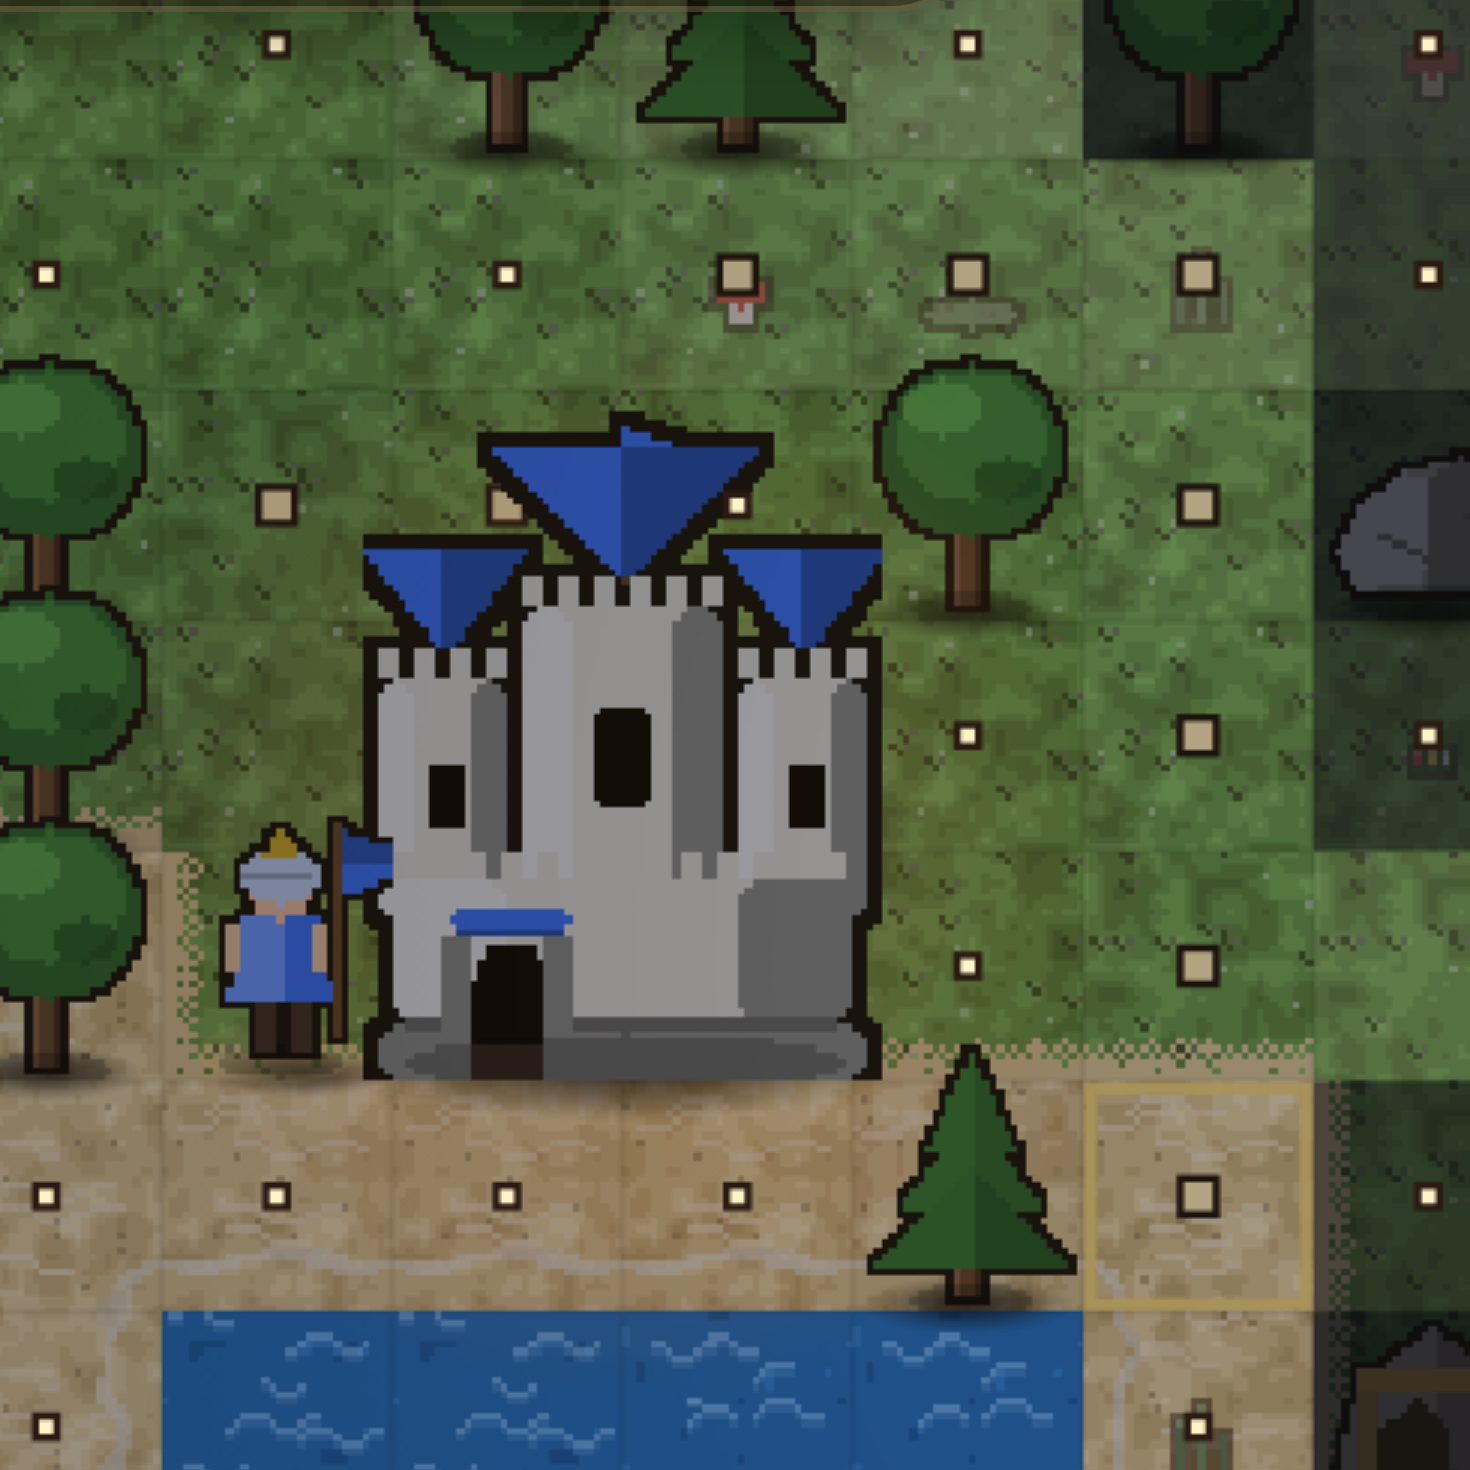
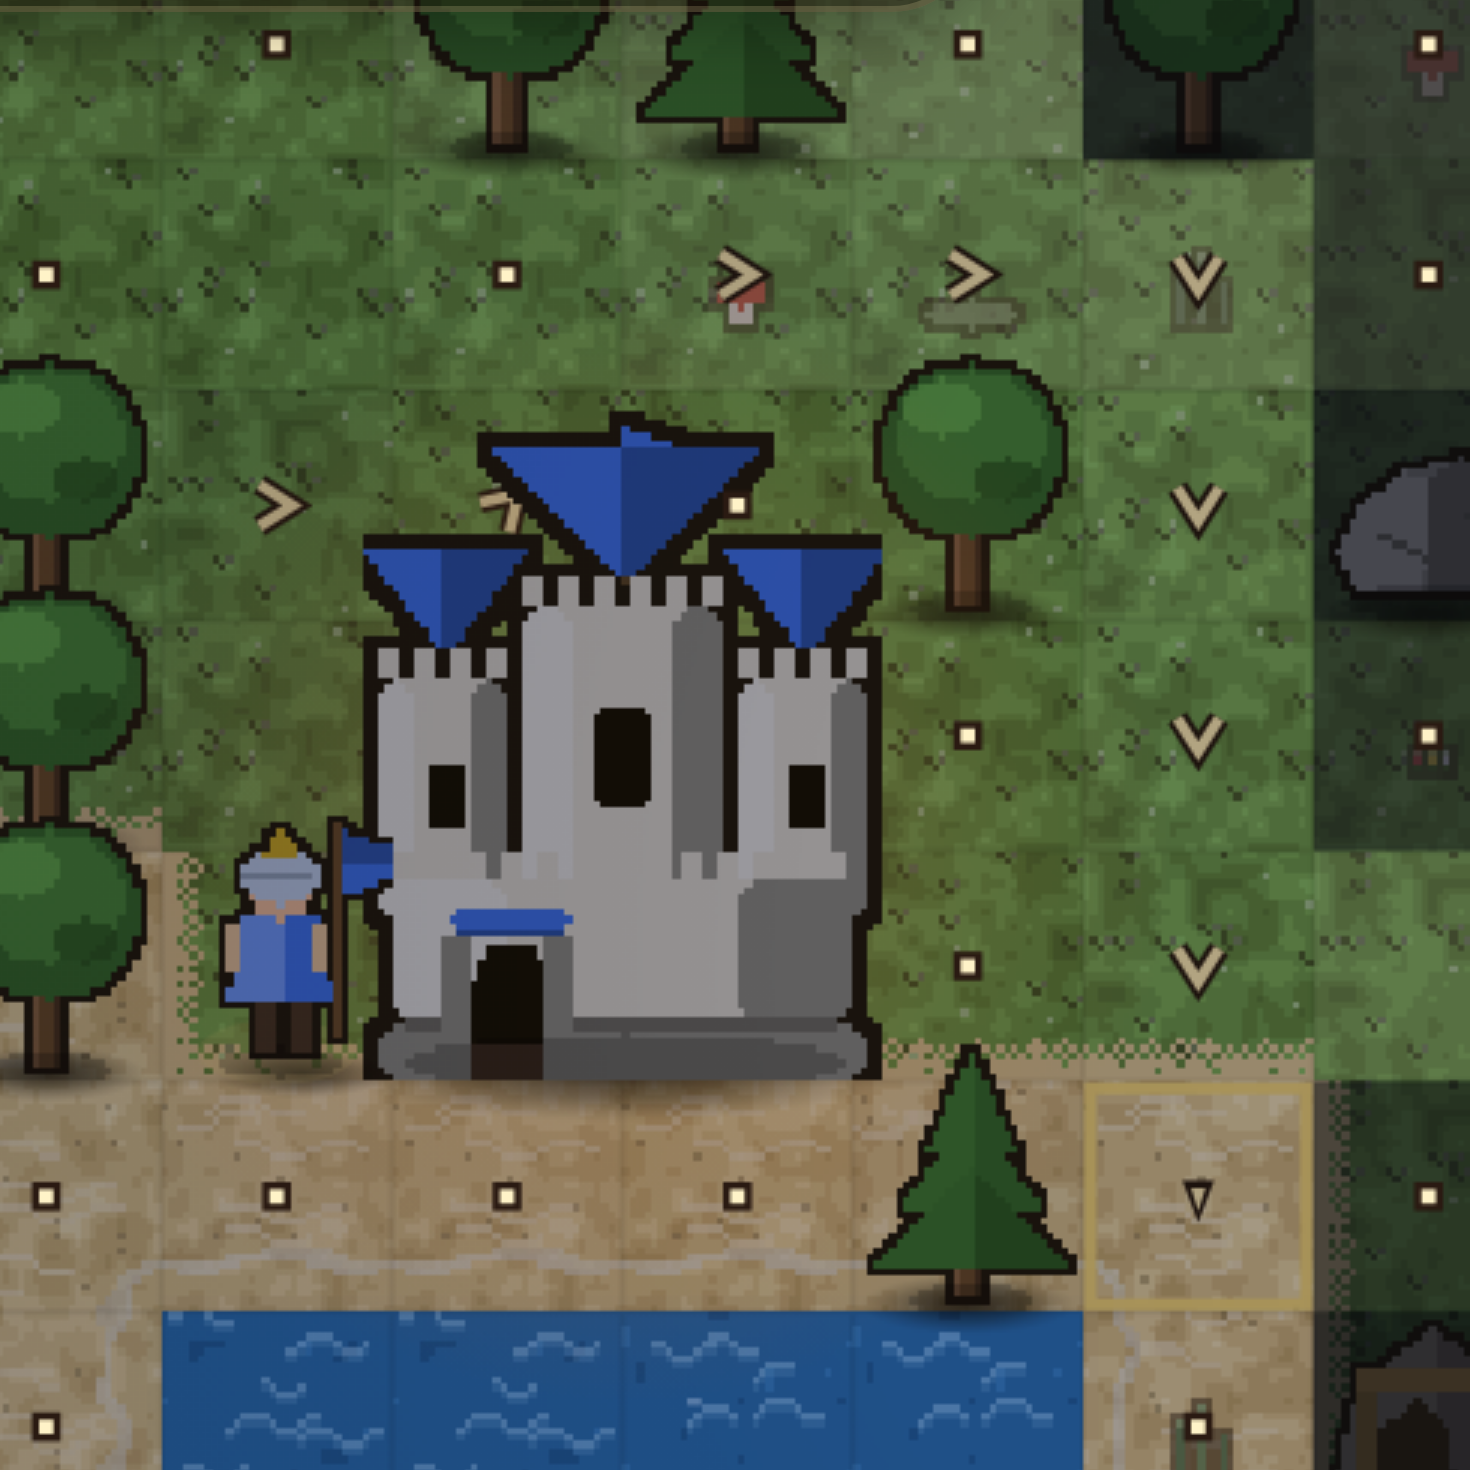
feat(render): 预览路径地标改成带方向的折角箭头（probe:pathdots 加 pathdir）
方点只回答"这格在路线里"，回答不了"往哪走" —— 10 步路线要靠玩家自己把点连成线，
而这条线是要用手指点的，读错一步就多点一次。

- 每格一枚折角箭头（尖 +2.2 / 两翼 −2.4 ± 2.9，墨 3.0 + 金 1.5），末步换实心三角（尖 3.6 / 底 ±2.2）；
  颜色仍是墨 #2a1a12 + 金 #ffe6a0，层级「箭头 > 边界」。不画连续线：一格只有 38 画面 px，
  连续线会压掉地形，拐角也不好表达。
- 新判据 `pathdir`：`main.ts` 的 buildPath 回传路径点列（`__mapPreviewTo`），
  `MapRenderer` 用 `Math.sign(next−cur)` 给出每步方向，探针逐格对账（9 步全对，3 种方向）。
- 又抓到一个想当然：注释里写"路径四邻接、dx/dy 必有一为 0"，实测出现 1,-1 ——
  `pathfinding.ts` 的 DIRS 是 8 邻域。箭头按 atan2 旋转，45° 也能画，只改注释；
  但若照那句话写断言，会把合法的斜步判成错。
- 换形后重测（同图同格同路线，夜相位 0.68）：箭头 4.21/4.78/0.804，旧臂 2.71/3.20/0.3638；
  方点版 4.09/5.15 作参照，两组数各自标注形态。
- 证据 production/render-pathdots/（4 张，已换成箭头版）；报告 §17；回归 16 门全 exit 0。

diff --git a/homm-web/src/render/MapRenderer.ts b/homm-web/src/render/MapRenderer.ts
@@ -144,16 +144,93 @@ const REACH_DOT_R = 2;
 const REACH_DOT_CORE_R = 1;
 
 /**
- * 预览路径的地标（`vm.path`，按住/悬停时那条路线）。
+ * 预览路径的地标（`vm.path`，按住/悬停时那条路线）——**带方向的箭头**，不是圆点。
  *
- * 为什么它比可达点**大一号、且是金色**：两者位置同为格心，若同尺寸同色，玩家分不清
- * "这格能到"和"我要走这格"。层级是「路线 > 边界」—— 6×6 墨底 + 4×4 金芯 vs 4×4/2×2。
- * 金色 `#ffe6a0` 与跨天小旗 `rgba(240,205,110)` 同族，保证"同一条路线"的两种标记仍是一家人。
+ * ## 为什么从"方点"改成"箭头"（2026-10-24 第二轮）
+ * 方点只回答"这格在路线里"，回答不了"**往哪走**"。玩家要读一条 10 步的路线，
+ * 只能自己把点按顺序连成线 —— 而这条线是要用手指去点的，读错一步就多点一次。
+ * HoMM3 的做法是连续箭头，这里用**每步一枚折角箭头（chevron）**近似：
+ * 尖头朝下一格，末步换成实心三角（终点读起来更硬）。
+ *
+ * ## 为什么不是"一串连着的线"
+ * 32px 格、真机 zoom 1.2 ⇒ 一格只有 38 画面 px；连续线会把地形压住，
+ * 也不好在拐角处表达"这里要转"。折角箭头留在格心，拐角自然读得出来。
+ *
+ * ## 颜色与层级
+ * 墨底 `#2a1a12` + 金 `#ffe6a0`（与跨天小旗 `rgba(240,205,110)` 同族）。
+ * 层级「路线 > 边界」：可达点是 4×4 墨底 + 2×2 暖白芯；箭头跨 7×6 世界 px 且带方向。
  */
 const PATH_DOT_INK = '#2a1a12';
 const PATH_DOT_CORE = '#ffe6a0';
-const PATH_DOT_R = 3;
-const PATH_DOT_CORE_R = 2;
+/** 折角的半长/半高（世界 px）：尖头到 +2.2、两翼到 −2.4 ± 2.9。 */
+const PATH_ARROW_TIP = 2.2;
+const PATH_ARROW_BACK = 2.4;
+const PATH_ARROW_WING = 2.9;
+/** 末步实心三角：尖 3.6、底 ±2.2。 */
+const PATH_HEAD_TIP = 3.6;
+const PATH_HEAD_BASE = 2.2;
+/**
+ * `probeReach`/`probeDots` 的取色半径（世界 px）。
+ * 箭头不吃满一个 6×6 的方块，但它的两翼伸到 ±2.9、尖到 +3.6 ⇒ 取色窗必须够到那儿，
+ * 否则"最亮点"会落到底色上、把箭头本身漏掉（那会把 4.09 读成 1.x）。
+ */
+const PATH_DOT_R = 4;
+
+/**
+ * 画一枚方向地标（世界坐标，调用方已套好相机变换）。
+ *
+ * 画法刻意"像素友好"：不用圆头/阴影，全用 miter 折角与实心三角 ——
+ * 32px 格上任何抗锯齿的柔边都会让它糊成一团（与 §15 的点同理）。
+ * 折角箭头（chevron）负责"有方向"，末步实心三角负责"到这儿"。
+ */
+function drawPathArrow(
+  ctx: CanvasRenderingContext2D,
+  cx: number,
+  cy: number,
+  dx: number,
+  dy: number,
+  head: boolean,
+): void {
+  if (dx === 0 && dy === 0) return;
+  ctx.save();
+  ctx.translate(cx, cy);
+  // 8 邻域 ⇒ 45° 的整数倍；`atan2` 用格坐标（y 向下），与屏幕一致。
+  ctx.rotate(Math.atan2(dy, dx));
+  ctx.lineCap = 'butt';
+  ctx.lineJoin = 'miter';
+  if (head) {
+    ctx.beginPath();
+    ctx.moveTo(PATH_HEAD_TIP, 0);
+    ctx.lineTo(-PATH_HEAD_BASE, -PATH_HEAD_BASE);
+    ctx.lineTo(-PATH_HEAD_BASE, PATH_HEAD_BASE);
+    ctx.closePath();
+    ctx.fillStyle = PATH_DOT_INK;
+    ctx.fill();
+    ctx.beginPath();
+    ctx.moveTo(PATH_HEAD_TIP - 1.5, 0);
+    ctx.lineTo(-PATH_HEAD_BASE + 1.0, -PATH_HEAD_BASE + 1.2);
+    ctx.lineTo(-PATH_HEAD_BASE + 1.0, PATH_HEAD_BASE - 1.2);
+    ctx.closePath();
+    ctx.fillStyle = PATH_DOT_CORE;
+    ctx.fill();
+  } else {
+    const chevron = (): void => {
+      ctx.beginPath();
+      ctx.moveTo(-PATH_ARROW_BACK, -PATH_ARROW_WING);
+      ctx.lineTo(PATH_ARROW_TIP, 0);
+      ctx.lineTo(-PATH_ARROW_BACK, PATH_ARROW_WING);
+    };
+    chevron();
+    ctx.strokeStyle = PATH_DOT_INK;
+    ctx.lineWidth = 3.0;
+    ctx.stroke();
+    chevron();
+    ctx.strokeStyle = PATH_DOT_CORE;
+    ctx.lineWidth = 1.5;
+    ctx.stroke();
+  }
+  ctx.restore();
+}
 
 /**
  * 路径地标也**画在光照之后**（默认开；`?devpathafter=0` 回退旧路径）。
@@ -532,8 +609,9 @@ export class MapRenderer {
   private shadowSpots: Array<{ cx: number; yb: number; w: number }> = [];
   /** 本帧格心点（仅 `?devreachprobe=1` 时登记），供 `probeReach()` 取色。 */
   private reachSpots: Array<{ x: number; y: number; terrain: string }> = [];
-  /** 本帧路径地标（仅 `?devreachprobe=1` 时登记），供 `probePath()` 取色。 */
-  private pathSpots: Array<{ x: number; y: number; terrain: string }> = [];
+  /** 本帧路径地标（仅 `?devreachprobe=1` 时登记），供 `probePath()` 取色。
+   *  `dx/dy` = 该步的单位方向（格坐标，末步沿用前一步）—— 探针要拿它跟路径本身对账。 */
+  private pathSpots: Array<{ x: number; y: number; terrain: string; dx: number; dy: number }> = [];
   /** 本帧落在「预览路径」上的可达点数量（默认应为 0 —— 路径已经表达了这条路）。 */
   private dotsOnPath = 0;
   /** 路径地标是否画在光照之后（`?devpathafter=0` 回退）。 */
@@ -800,10 +878,23 @@ export class MapRenderer {
     return this.probeDots(this.reachSpots, REACH_DOT_R);
   }
 
-  /** 预览路径的地标（`probeReach` 的同款量法，点更大 ⇒ 半径按 `PATH_DOT_R`）。 */
+  /**
+   * 预览路径的地标（`probeReach` 的同款量法，半径按 `PATH_DOT_R`）+ **每步的方向**。
+   *
+   * 方向单独回传的理由：它是这一层新加的信息，而"箭头朝哪儿"不能靠截图看（截图上
+   * 看得见"像不像箭头"，看不出"是不是该朝那一边"）。探针拿它跟 `vm.path` 的步子对账。
+   */
   probePath() {
     const r = this.probeDots(this.pathSpots, PATH_DOT_R);
-    return { ...r, dotsOnPath: this.dotsOnPath, drawnAfter: this.pathAfter };
+    const dir = new Map<string, [number, number]>();
+    for (const s of this.pathSpots) {
+      dir.set(`${Math.floor(s.x / TILE)},${Math.floor(s.y / TILE)}`, [s.dx, s.dy]);
+    }
+    const per = r.per.map((p) => {
+      const d = dir.get(`${p.tx},${p.ty}`) ?? [0, 0];
+      return { ...p, dx: d[0], dy: d[1] };
+    });
+    return { ...r, per, dotsOnPath: this.dotsOnPath, drawnAfter: this.pathAfter };
   }
 
   /**
@@ -1233,7 +1324,7 @@ export class MapRenderer {
      *  ★ 首版写成 `this.pathAfter ? [] : []`（两支都是空数组 ⇒ 永远 truthy）⇒
      *    `?devpathafter=0` 的旧路径分支成了**死代码**，两臂读数逐位相同，
      *    看上去"这条判据通过了"，其实是两臂都没走另一条路。 */
-    const afterPath: Array<[number, number]> | null = this.pathAfter ? [] : null;
+    const afterPath: Array<[number, number, number, number, number]> | null = this.pathAfter ? [] : null;
     let statPathDots = 0;
     // 边带落笔：默认（`afterBands===null`）立即填充，与原实现逐像素一致；开启 (1) 时只登记。
     // `statRects/statPx` 只累加、不参与绘制（见 `BAND_STATS`）。
@@ -1398,19 +1489,31 @@ export class MapRenderer {
         const p = vm.path[k];
         const cx = p.x * TILE + TILE / 2;
         const cy = p.y * TILE + TILE / 2;
+        /* 方向：指向下一格；末步没有"下一格"⇒ 沿用上一步的方向（否则终点会画成一个无向的团）。
+           ★ 别照抄"四邻接"这个想当然：`pathfinding.ts` 的 `DIRS` 是 **8 邻域**（含对角），
+           实测一条 10 步路线里就出现过 `1,-1` ⇒ `dx/dy` 可能同时非 0（45° 箭头），
+           `drawPathArrow` 用 `atan2` 旋转，四个正方向与四个斜方向都能画。 */
+        const next = k + 1 < vm.path.length ? vm.path[k + 1] : null;
+        const prev = vm.path[k - 1];
+        const dx = next ? Math.sign(next.x - p.x) : Math.sign(p.x - prev.x);
+        const dy = next ? Math.sign(next.y - p.y) : Math.sign(p.y - prev.y);
+        const isLast = !next;
         statPathDots++;
         if (REACH_PROBE && this.pathSpots.length < 400) {
-          this.pathSpots.push({ x: cx, y: cy, terrain: map.tiles[idx(map, p.x, p.y)].terrain });
+          this.pathSpots.push({
+            x: cx,
+            y: cy,
+            terrain: map.tiles[idx(map, p.x, p.y)].terrain,
+            dx,
+            dy,
+          });
         }
         if (afterPath) {
           // 默认：只登记，落笔在光照之后（见文件末尾重放段）
-          afterPath.push([cx, cy]);
+          afterPath.push([cx, cy, dx, dy, isLast ? 1 : 0]);
         } else {
           // `?devpathafter=0`：旧路径 —— 立刻画、且被整屏 multiply 乘暗（负向对照用）
-          ctx.fillStyle = PATH_DOT_INK;
-          ctx.fillRect(cx - PATH_DOT_R, cy - PATH_DOT_R, PATH_DOT_R * 2, PATH_DOT_R * 2);
-          ctx.fillStyle = PATH_DOT_CORE;
-          ctx.fillRect(cx - PATH_DOT_CORE_R, cy - PATH_DOT_CORE_R, PATH_DOT_CORE_R * 2, PATH_DOT_CORE_R * 2);
+          drawPathArrow(ctx, cx, cy, dx, dy, isLast);
         }
       }
     }
@@ -1585,16 +1688,8 @@ export class MapRenderer {
       ctx.save();
       ctx.translate(cam.x, cam.y);
       ctx.scale(cam.zoom, cam.zoom);
-      for (const [cx, cy] of afterPath) {
-        ctx.fillStyle = PATH_DOT_INK;
-        ctx.fillRect(cx - PATH_DOT_R, cy - PATH_DOT_R, PATH_DOT_R * 2, PATH_DOT_R * 2);
-        ctx.fillStyle = PATH_DOT_CORE;
-        ctx.fillRect(
-          cx - PATH_DOT_CORE_R,
-          cy - PATH_DOT_CORE_R,
-          PATH_DOT_CORE_R * 2,
-          PATH_DOT_CORE_R * 2,
-        );
+      for (const [cx, cy, dx, dy, last] of afterPath) {
+        drawPathArrow(ctx, cx, cy, dx, dy, last === 1);
       }
       ctx.restore();
     }

diff --git a/production/ui-review-2026-10-22.html b/production/ui-review-2026-10-22.html
@@ -272,14 +272,14 @@ td .p{display:inline-block;font-size:11px;padding:1px 7px;border-radius:99px;bor
 
   <div style="margin:22px 0 4px;padding:14px 18px;border:1px solid rgba(232,196,106,.45);border-radius:10px;
        background:linear-gradient(180deg,rgba(232,196,106,.12),rgba(232,196,106,.04));">
-    <div style="font-size:12px;letter-spacing:.14em;color:#e8c46a;font-weight:600">P0 + P1 已落地 · 2026-10-22/24 · f80e771（P0）· cb47c16（城镇/部队带）· 图标与预估 · HUD 四角与过天字幕 · P2 行动队列 · 渲染三改：接地影 · 邻色过渡带 · 可达范围点阵 · <b>逐地形读数 + 路径互让</b></div>
+    <div style="font-size:12px;letter-spacing:.14em;color:#e8c46a;font-weight:600">P0 + P1 已落地 · 2026-10-22/24 · f80e771（P0）· cb47c16（城镇/部队带）· 图标与预估 · HUD 四角与过天字幕 · P2 行动队列 · 渲染三改：接地影 · 邻色过渡带 · 可达范围点阵 · 逐地形读数 · 路径互让 · <b>路径方向箭头</b></div>
     <div style="margin-top:6px;font-size:15px;line-height:1.6;color:#efe4cd">
       P0 五条 + P1 六条（城镇四列 / 战斗部队带 / 10 个动作图标 / 触屏可见的预估伤害 /
-      <b>战斗 HUD 四角重排</b> / <b>过天字幕不再报坐标</b> / <b>P2 行动队列</b> / <b>渲染：接地影</b> / <b>邻色过渡带</b> / <b>可达范围点阵</b> / <b>逐地形读数</b> / <b>路径与点阵互让</b>）全部实施。本页下方的「改后」是<b>设计意图</b>；
+      <b>战斗 HUD 四角重排</b> / <b>过天字幕不再报坐标</b> / <b>P2 行动队列</b> / <b>渲染：接地影</b> / <b>邻色过渡带</b> / <b>可达范围点阵</b> / <b>逐地形读数</b> / <b>路径与点阵互让</b> / <b>路径方向箭头</b>）全部实施。本页下方的「改后」是<b>设计意图</b>；
       <b>真实成品</b>见 <span style="font-family:ui-monospace,Menlo,monospace;font-size:13px">production/ui-p0-after/</span>（七张）
       、<span style="font-family:ui-monospace,Menlo,monospace;font-size:13px">ui-p1-after/</span>（十张）、<span style="font-family:ui-monospace,Menlo,monospace;font-size:13px">render-shadow/</span>（两张）、<span style="font-family:ui-monospace,Menlo,monospace;font-size:13px">render-terrainedge/</span>（三张）、<span style="font-family:ui-monospace,Menlo,monospace;font-size:13px">render-reachdots/</span>（五张）与 <span style="font-family:ui-monospace,Menlo,monospace;font-size:13px">render-pathdots/</span>（四张），
-      量化读数见同目录 <span style="font-family:ui-monospace,Menlo,monospace;font-size:13px">ui-review-2026-10-22.md §8…§16</span>。
-      新门 <span style="font-family:ui-monospace,Menlo,monospace;font-size:13px">npm run probe:uip0</span> 十二条判据全绿（12/12 负向对照能变红）；<span style="font-family:ui-monospace,Menlo,monospace;font-size:13px">probe:mapshadow</span> 四条判据全绿（2/2 负向对照能变红）；<span style="font-family:ui-monospace,Menlo,monospace;font-size:13px">probe:terrainedge</span> 三条判据全绿（3/3 负向对照能变红）；<span style="font-family:ui-monospace,Menlo,monospace;font-size:13px">probe:reachdots</span> 五条判据全绿（全局最差 3.89 · 逐地形 grass 3.89 / sand 4.34 · 六张图全过；负向对照 <code>shade</code> 臂 0 枚 0 数）；<span style="font-family:ui-monospace,Menlo,monospace;font-size:13px">probe:pathdots</span> 五条判据全绿（路径地标夜里 4.09：旧路径同图同格只有 2.79；四条负向对照能变红）；
+      量化读数见同目录 <span style="font-family:ui-monospace,Menlo,monospace;font-size:13px">ui-review-2026-10-22.md §8…§17</span>。
+      新门 <span style="font-family:ui-monospace,Menlo,monospace;font-size:13px">npm run probe:uip0</span> 十二条判据全绿（12/12 负向对照能变红）；<span style="font-family:ui-monospace,Menlo,monospace;font-size:13px">probe:mapshadow</span> 四条判据全绿（2/2 负向对照能变红）；<span style="font-family:ui-monospace,Menlo,monospace;font-size:13px">probe:terrainedge</span> 三条判据全绿（3/3 负向对照能变红）；<span style="font-family:ui-monospace,Menlo,monospace;font-size:13px">probe:reachdots</span> 五条判据全绿（全局最差 3.89 · 逐地形 grass 3.89 / sand 4.34 · 六张图全过；负向对照 <code>shade</code> 臂 0 枚 0 数）；<span style="font-family:ui-monospace,Menlo,monospace;font-size:13px">probe:pathdots</span> 六条判据全绿（箭头夜里 4.21：旧路径同图同格 2.71；每步方向与 <code>buildPath</code> 逐格对账；四条负向对照能变红）；
       <span style="font-family:ui-monospace,Menlo,monospace;font-size:13px">npm run probe:aiday</span> 验过天文案（无坐标 · 每条「进入视野」都属实 · 检查器自带两条负向对照）。
     </div>
   </div>

diff --git a/homm-web/src/main.ts b/homm-web/src/main.ts
@@ -2212,7 +2212,12 @@ if (bootParams.has('devprobe')) {
     hover = g;
     const path = buildPath(state, fieldFull, hero.pos, g);
     previewPath = path.length ? path : null;
-    return { ok: !!previewPath, n: previewPath ? previewPath.length : 0 };
+    /* 把**路径本身**也回传：探针要拿它跟渲染器自报的"每步方向"对账（两处独立算，才有意义）。 */
+    return {
+      ok: !!previewPath,
+      n: previewPath ? previewPath.length : 0,
+      path: previewPath ? previewPath.map((q) => ({ x: q.x, y: q.y })) : [],
+    };
   };
 }
 
